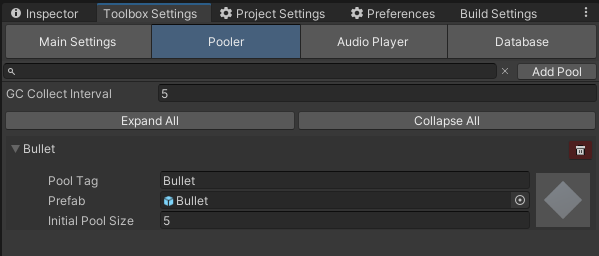
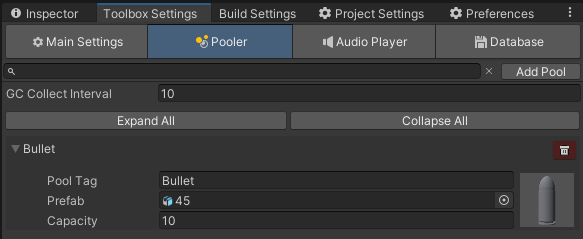
spelling and logic updates

diff --git a/docs/toolbox/pooler.md b/docs/toolbox/pooler.md
@@ -8,8 +8,6 @@ Let's start this topic by defining what 'Pool' means. Here you can read all abou
 
 Toolbox has his own implementation of this pattern. Simple way you can use it is to define pools you need in [Toolbox settings](toolbox-settings.md) and call `Pooler.Spawn(...)` where you need.
 
-<img src="pooler_use_example_settings.png">
-
 ```C#
 ...
 
@@ -24,23 +22,33 @@ public void Shoot()
 
 Here you can see that to create pool you need to define it's tag, prefab and capacity.
 
+To create pools, which will be initialized on start, go to 'Toolbox Settings' and  click on 'Pooler' tab. Here you can add or remove pools, change it's tags, prefabs and capacity.
+
+<img src="pooler_use_example_settings.png">
+
 Capacity of the pool describes how many objects you can spawn without instantiating a new one, when it's all over.
 
 You can create pool manually in code by calling `Pooler.TryAddPool(PoolData poolToAdd)` or `Pooler.TryAddPool(string tag, GameObject prefab, int capacity)`. Pool won't be added if other pool already uses specified tag.
 
 Also you can remove pool by calling `Pooler.TryRemovePool(string tag)`.
 
+##Scene pools
+
+What if you want to use some pools on the specific scene? Manually creating and removing pools each time seems boring and complicated. For this reason Toolbox has a `Scene Pool` component, which automatically creates specified pools when scene is loaded and removes them when it is unloaded.
+
+<img src="scene_pool.png">
+
 ##Creating objects
 
 It is recommended to create all object by using `Pooler`, because it works with [`Updater`](updater.md) and initializes objects to work properly with Toolbox.
 
-Alternative to basic Unity's `Instantiate(...)` method is `Pooler.Instantite(...)`. Use it when you need to create object without using pool.
+An alternative to basic Unity's `Instantiate(...)` method is `Pooler.Instantite(...)`. Use it when you need to create object without using pool.
 
 ##Destroying objects
 
 <span style="color:red">IMPORTANT!</span> Do not destroy objects that created by `Pooler.Spawn(...)` method, use `Pooler.TryDespawn(GameObject obj)` instead. It will remove object from processing and returns it back to pool. 
 
-If you do not know exactly what object you are working with, use `Pooler.DespawnOrDestroy(GameObject obj)` method, so `Pooler` decides by itself to destroy or despawn object. If object are part of any existing pool it will be despawned otherwise it will be destroyed.
+If you do not know exactly what object are you working with, use `Pooler.DespawnOrDestroy(GameObject obj)` method, so `Pooler` decides for itself to destroy or despawn object. If object are part of any existing pool it will be despawned otherwise it will be destroyed.
 
 Both methods returns bool that indicates if objects despawned or destroyed or not.
 
@@ -50,3 +58,9 @@ There might be situation when you unloading scene that contains spawned objects.
 
 ##Garbage Collector
 
+When you spawn a lot of objects, then after some amount of time you ends up with a bunch of objects that you don't need, but they are still in memory. 
+To solve this problem `Pooler` has a 'Garbage Collector', that cleans up all objects in pools until they holds an initial capacity of objects.
+
+Garbage collector works by checking all pools every amount of time you specified in 'Toolbox Settings'. If a pool holds more objects than initial capacity, then the extra objects will be destroyed.
+
+You can manually tell to garbage collector to clean up pools by calling `Pooler.ForceGarbageCollector()`.

diff --git a/docs/toolbox/monocached.md b/docs/toolbox/monocached.md
@@ -1,10 +1,10 @@
 ##Basics
 
-Toolbox has own update system, which wraps around basic Unity's update cycle and doing his own calculations.
+Toolbox has its own update system, which wraps around [Unity's basic update cycle](https://docs.unity3d.com/Manual/ExecutionOrder.html) and doing its own calculations.
 
-`MonoCached` is the main component of this system. It is analogue to MonoBehaviour with some extra described below.
+`MonoCached` is the main component of this system. It is analogous to MonoBehaviour with some extra described below.
 
-`MonoCached` has same update cycle related methods, but named differently. Here are list of all "overrided" methods:
+`MonoCached` has same update cycle related methods, but named differently. It is closely related to [`Updater`](updater.md), so you can precisely control lifetime and update behaviour of each object. Here are list of all "overriden" method recommended to use instead:
 
 |Basic|Analogue|
 |-|-|
@@ -17,7 +17,7 @@ Toolbox has own update system, which wraps around basic Unity's update cycle and
 |`OnEnable`|`OnActivate`|
 |`OnDisable`|`OnDeactivate`|
 
-Also, `MonoCached` has methods and properties to control lifecycle:
+Also, `MonoCached` has methods and properties to control its lifecycle:
 
 |Method|Description|
 |-|-|
@@ -39,11 +39,11 @@ Here's some example:
 public class Rocket: MonoCached
 {
     private float speed = 10;
-    private SpriteRenderer sr;
+    private SpriteRenderer spriteRenderer;
 
     protected override void Rise()
     {
-        sr = GetComponent<SpriteRenderer>();
+        spriteRenderer = GetComponent<SpriteRenderer>();
     }
 
     protected override void Tick()

diff --git a/docs/toolbox/setup.md b/docs/toolbox/setup.md
@@ -4,8 +4,8 @@ Once you install the package, you will see setup screen:
 
 If you don't, just open it from `Toolbox/Setup Screen`
 
-First of all, you need to initialize main scene, click 'Initialize Main Scene' button to do this. 
-It will add 'MAIN' scene to `Assets/Scenes/` folder and in build settings scenes. 
+First you need to initialize main scene, click 'Initialize Main Scene' button to do this. 
+This will add 'MAIN' scene to `Assets/Scenes/` folder and in build settings scenes list. 
 Then you need to create some settings data, click 'Create Settings Data' to do this.
 
 After all preparations completed, you can open 'Toolbox Settings' by clicking 'Open Toolbox Settings' or open it from `Toolbox/Settings`.

diff --git a/docs/toolbox/about.md b/docs/toolbox/about.md
@@ -13,7 +13,7 @@ Table of contents:
 - [MonoCached](monocached.md)
 - [Updater](updater.md)
 - [Traveler](traveler.md)
-- [Pooler (WIP)](pooler.md)
+- [Pooler](pooler.md)
 - [Messenger (WIP)](messenger.md)
 - [Audio Player (WIP)](audioplayer.md)
 - [Database (WIP)](database.md)
